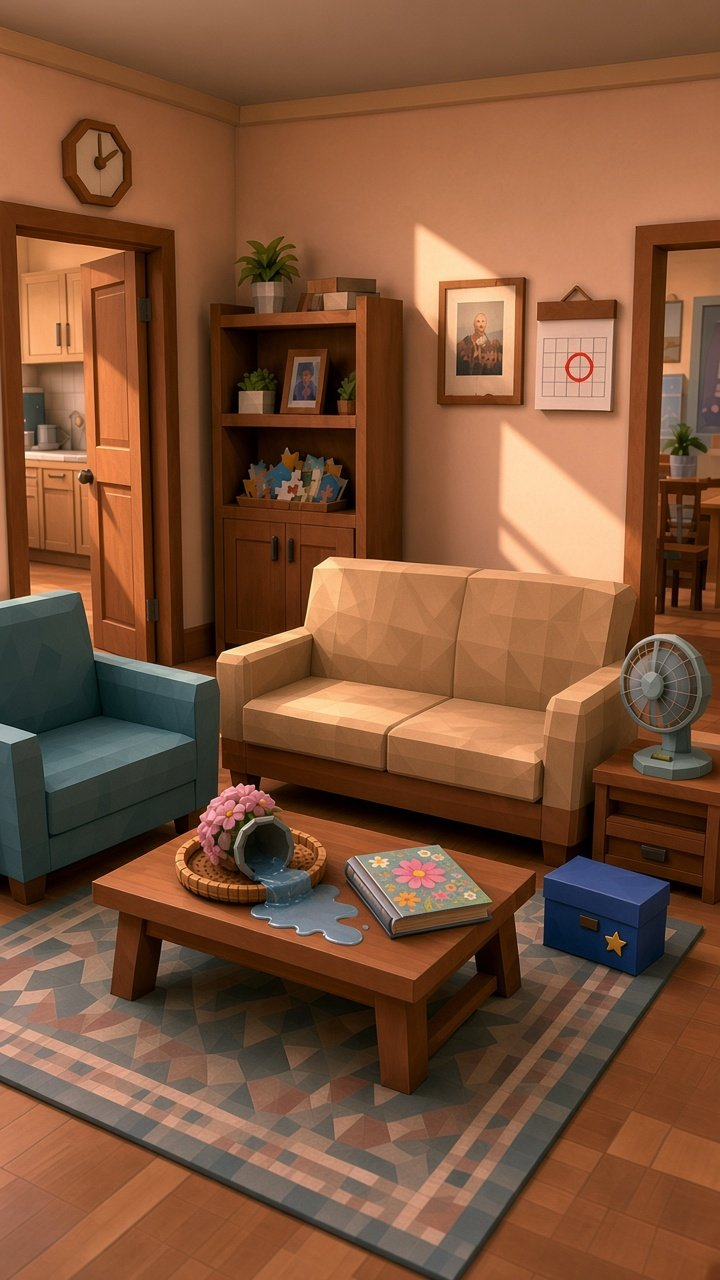
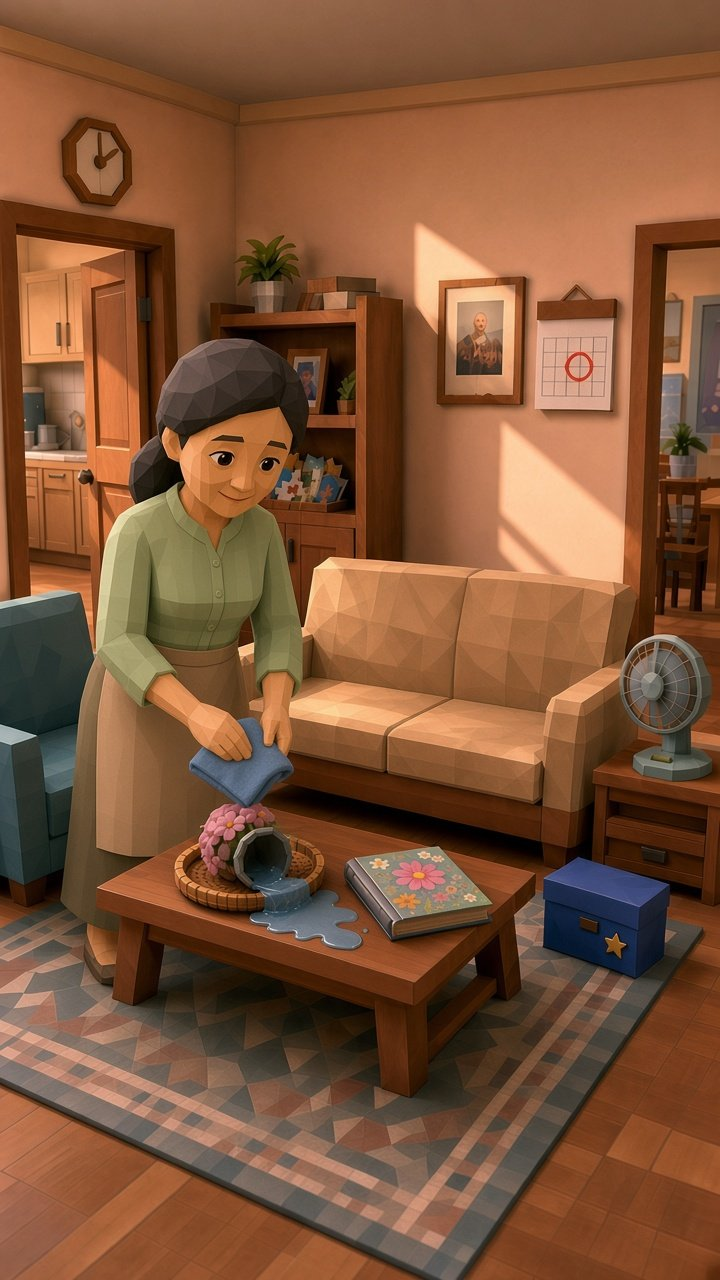
Add aunt Rin low-poly art; characters + dialogue in past time slots (Rin afternoon, grandma yesterday); keep map tray in yesterday; move cutscene p3 bubble; showcase data

diff --git a/prototypes/poc-clickthrough/index.html b/prototypes/poc-clickthrough/index.html
@@ -177,7 +177,7 @@ const EVENTS=[
 const CUTSCENE={'case-01':[
  {image:'cutscene-01-p1.jpg',caption:'คืนวันศุกร์ คุณยายมะลิโทรมาหาแม่',lines:[{who:'แม่',text:'พรุ่งนี้เราไปเยี่ยมบ้านคุณยายกันนะ',x:4,y:22,w:48},{who:'หนู',text:'เย้! ไปหาคุณยาย!',x:40,y:58,w:44}]},
  {image:'cutscene-01-p2.jpg',caption:'เช้าวันเสาร์ ครอบครัวมาถึงบ้านไม้ของคุณยาย',lines:[{who:'ยายมะลิ',text:'มาแล้วเหรอจ๊ะหลาน ยายคิดถึงจังเลย',x:2,y:46,w:50}]},
- {image:'cutscene-01-p3.jpg',caption:'แต่คุณยายดูไม่สบายใจเลย…',lines:[{who:'ยายมะลิ',text:'อัลบั้มรูปครอบครัวหายไปจากชั้นจ้ะ ในนั้นมีรูปตาตอนหนุ่ม ๆ ด้วย',x:2,y:22,w:52},{who:'หนู',text:'ไม่ต้องห่วงนะยาย หนูจะช่วยตามหาเอง!',x:56,y:72,w:42}]}]};
+ {image:'cutscene-01-p3.jpg',caption:'แต่คุณยายดูไม่สบายใจเลย…',lines:[{who:'ยายมะลิ',text:'อัลบั้มรูปครอบครัวหายไปจากชั้นจ้ะ ในนั้นมีรูปตาตอนหนุ่ม ๆ ด้วย',x:2,y:50,w:34},{who:'หนู',text:'ไม่ต้องห่วงนะยาย หนูจะช่วยตามหาเอง!',x:56,y:72,w:42}]}]};
 S.csEv='case-01';S.csPage=0;
 SC.events={title:'เลือกเหตุการณ์',hud:()=>'แตะการ์ดเพื่อเริ่มเหตุการณ์',render(el){const w=document.createElement('div');w.className='evlist';
  let h='<div class="evh">ออกจากห้องแล้ว จะไปไหนดีนะ?</div>';
@@ -223,12 +223,13 @@ const TIMESLOTS=[
  {id:'afternoon',kind:'hour',label:'บ่ายนี้ 14:00',img:'living-wide-afternoon.jpg',unlockBy:'E02',hint:'ลองตรวจรอยน้ำบนโต๊ะก่อน'},
  {id:'now',kind:'hour',label:'ตอนนี้ 17:00',img:'living-wide.jpg',unlockBy:null}];
 S.slot='now';
+const PAST={rin:['แย่จัง แจกันล้ม น้ำหกเต็มโต๊ะเลย ต้องรีบเช็ดก่อน','ของบนโต๊ะต้องยกออกไปก่อน เดี๋ยวเปียกหมด'],grandma:['พรุ่งนี้หลานจะมา ยายจะหยิบอัลบั้มเล่มนี้ลงไปเปิดให้ดูตอนเช้า','รูปเก่า ๆ บ้านเรามีที่เก็บประจำนะ แต่เล่มนี้ยายชอบไว้ใกล้ตัว']};
 const slotOf=()=>TIMESLOTS.find(t=>t.id===S.slot);
 const slotOpen=t=>!t.unlockBy||S.ev[t.unlockBy];
 function pastHs(){const L=[hs([[8,9],[18,9],[18,16],[8,16]],'นาฬิกา',()=>openTime('clock')),hs([[74,22],[86,22],[86,32],[74,32]],'ปฏิทินของยาย',()=>openCal('living')),
   hs([[76,66],[92,66],[93,75],[76,75]],'กล่องรูปดาว (ข้างโซฟา)',()=>toast('กล่องนี้อยู่ที่เดิมทุกช่วงเวลา'))];
- if(S.slot==='afternoon')L.push(hs([[28,61],[42,61],[44,70],[30,71]],'แจกันล้ม',()=>say('ย้อนเวลา: บ่ายนี้','แจกันล้ม น้ำหกนองโต๊ะ — อัลบั้มวางอยู่ข้าง ๆ เกือบเปียก!')),hs([[48,66],[68,66],[68,73],[48,73]],'อัลบั้ม (บ่ายนี้)',()=>say('ย้อนเวลา: บ่ายนี้','บ่ายนี้อัลบั้มยังอยู่บนโต๊ะ แต่ตอนนี้หายไป ใครยกไปตอนเช็ดน้ำนะ?')),hs([[30,33],[52,33],[52,41],[30,41]],'ถาดชิ้นแผนผัง',()=>toast('ชิ้นแผนผังยังอยู่ในถาด')));
- if(S.slot==='yesterday')L.push(hs([[33,34],[47,34],[47,41],[33,41]],'อัลบั้มบนชั้น',()=>say('ย้อนเวลา: เมื่อวาน','เมื่อวานอัลบั้มยังอยู่บนชั้น ยายหยิบลงมาดูบนโต๊ะเมื่อเช้า')));
+ if(S.slot==='afternoon')L.push(hs([[22,27],[42,28],[42,52],[30,58],[12,60],[14,40]],'น้าริน (บ่ายนี้)',()=>say2('น้าริน',PAST.rin)),hs([[30,64],[42,64],[48,72],[34,72]],'แจกันล้ม',()=>say('ย้อนเวลา: บ่ายนี้','แจกันล้ม น้ำหกนองโต๊ะ — อัลบั้มวางอยู่ข้าง ๆ เกือบเปียก!')),hs([[48,66],[68,66],[68,73],[48,73]],'อัลบั้ม (บ่ายนี้)',()=>say('ย้อนเวลา: บ่ายนี้','บ่ายนี้อัลบั้มยังอยู่บนโต๊ะ แต่ตอนนี้หายไป ใครยกไปตอนเช็ดน้ำนะ?')),hs([[44,34],[50,34],[50,40],[44,40]],'ถาดชิ้นแผนผัง',()=>toast('ชิ้นแผนผังยังอยู่ในถาด')));
+ if(S.slot==='yesterday')L.push(hs([[20,25],[34,25],[36,40],[34,52],[18,52],[18,40]],'ยายมะลิ (เมื่อวาน)',()=>say2('ยายมะลิ',PAST.grandma)),hs([[38,27],[48,27],[48,33],[38,33]],'อัลบั้มบนชั้น',()=>say('ย้อนเวลา: เมื่อวาน','อัลบั้มปกดอกไม้ตั้งอยู่บนชั้นบน ใกล้มือยาย')),hs([[37,35],[48,35],[48,40],[37,40]],'ถาดชิ้นแผนผัง',()=>toast('ชิ้นแผนผังยังเรียงอยู่ในถาดครบ')));
  return L}
 function openTime(kind){const el=$('cal');const list=TIMESLOTS.filter(t=>kind==='clock'?t.kind==='hour':true);
  let h=`<button class="calx" aria-label="ปิด">✕</button><div class="calc" style="background:repeating-linear-gradient(0deg,#f3e3c3 0 6px,#efdcb8 6px 7px);color:#4a2e18;border:8px solid #8a5a34"><div class="calh" style="background:linear-gradient(90deg,#6b3f22,#8a5a34)"><span>${kind==='clock'?'🕰 นาฬิกา: ย้อนชั่วโมง':'📅 ปฏิทิน: ย้อนวัน'}</span><small>พลังย้อนเวลา</small></div><ul class="cale">`+
@@ -317,7 +318,7 @@ SC.deduce={title:'กระดานคดี — สรุปคดี',hud:()=
  const evs=Object.keys(S.ev).filter(k=>k!=='E05');
  DQA.forEach((d,i)=>{const b=document.createElement('div');b.className='dq'+(DQ.ok[i]===1?' ok':DQ.ok[i]===-1?' bad':'');
   let h=`<h4>${d.q} ${DQ.ok[i]===1?'✅':''}</h4><div class="row">`;
-  if(i===0)[['grandma','ยายมะลิ','img/living-grandma.jpg'],['mek','ลุงเมฆ','img/uncle-mek.jpg'],['rin','น้าริน','']].forEach(([k,n,im])=>h+=`<div class="por ${DQ.a[0]===k?'sel':''}" data-a="${k}" style="${im?`background-image:url(${im})`:'background:#c58fb0;font-size:28px'}">${im?'':'👩'}<span>${n}</span></div>`);
+  if(i===0)[['grandma','ยายมะลิ','img/living-grandma.jpg'],['mek','ลุงเมฆ','img/uncle-mek.jpg'],['rin','น้าริน','img/rin.jpg']].forEach(([k,n,im])=>h+=`<div class="por ${DQ.a[0]===k?'sel':''}" data-a="${k}" style="${im?`background-image:url(${im})`:'background:#c58fb0;font-size:28px'}">${im?'':'👩'}<span>${n}</span></div>`);
   if(i===1)[['water','น้ำหกบนโต๊ะ'],['hide','แอบซ่อนไว้'],['look','หยิบไปดูรูป']].forEach(([k,n])=>h+=`<button class="ch ${DQ.a[1]===k?'sel':''}" data-a="${k}">${n}</button>`);
   if(i===2){h+='<div class="mini">'+[['living',10,10,80,35],['study',12,46,40,34],['kitchen',53,46,35,34]].map(([k,x,y,ww,hh])=>`<div class="${DQ.a[2]===k?'sel':''}" data-a="${k}" title="${k}" style="left:${x}%;top:${y}%;width:${ww}%;height:${hh}%"></div>`).join('')+`</div><span>${{living:'ห้องนั่งเล่น',study:'ห้องทำงาน (ใต้หน้าต่าง)',kitchen:'ครัว'}[DQ.a[2]]||'แตะห้องบนแผนผัง'}</span>`}
   h+='</div><div class="row" style="margin-top:6px">หลักฐาน: '+evs.map(k=>`<span class="evc ${DQ.e[i]===k?'sel':''}" data-e="${k}">${k}</span>`).join('')+'</div>';

diff --git a/prototypes/asset-showcase/index.html b/prototypes/asset-showcase/index.html
@@ -113,12 +113,22 @@ footer{padding:14px;font-size:12px;opacity:.7}
    "nameTh": "น้าริน",
    "nameEn": "Aunt Rin",
    "category": "character",
-   "thumb": null,
+   "thumb": {
+    "src": "../poc-clickthrough/img/rin.jpg",
+    "crop": [
+     22,
+     8,
+     58,
+     58
+    ]
+   },
    "scenes": [
-    "(ยังไม่ปรากฏตัว)"
+    "living@afternoon",
+    "deduction",
+    "ending"
    ],
-   "status": "to-design",
-   "note": "ยังไม่มีภาพ"
+   "status": "concept-only",
+   "note": "ผมหางม้าต่ำ เสื้อเขียวอ่อน ผ้ากันเปื้อน — ผู้ย้ายอัลบั้ม (ไม่ใช่คนร้าย)"
   },
   {
    "id": "room-player",
@@ -679,7 +689,7 @@ footer{padding:14px;font-size:12px;opacity:.7}
     "living @ afternoon"
    ],
    "size": "720×1280",
-   "kb": 139
+   "kb": 140
   },
   {
    "file": "prototypes/poc-clickthrough/img/living-wide-yesterday.jpg",
@@ -689,7 +699,7 @@ footer{padding:14px;font-size:12px;opacity:.7}
     "living @ yesterday"
    ],
    "size": "720×1280",
-   "kb": 124
+   "kb": 128
   },
   {
    "file": "prototypes/poc-clickthrough/img/living-wide.jpg",
@@ -707,6 +717,16 @@ footer{padding:14px;font-size:12px;opacity:.7}
    "category": "background",
    "usedIn": [
     "room (ห้องของฉัน (hub))"
+   ],
+   "size": "720×1280",
+   "kb": 107
+  },
+  {
+   "file": "prototypes/poc-clickthrough/img/rin.jpg",
+   "thumb": "../poc-clickthrough/img/rin.jpg",
+   "category": "closeup",
+   "usedIn": [
+    "น้าริน portrait · deduction (ใครย้ายอัลบั้ม?)"
    ],
    "size": "720×1280",
    "kb": 107
@@ -865,7 +885,7 @@ footer{padding:14px;font-size:12px;opacity:.7}
    "slot": "afternoon",
    "image": "../../concepts/v2/living-wide-afternoon.jpg",
    "changes": [
-    "ไม่มีคนในห้อง",
+    "น้ารินกำลังเช็ดน้ำ (ไม่มีคนอื่น)",
     "แจกันล้ม น้ำนองโต๊ะ",
     "อัลบั้มวางบนโต๊ะ",
     "ยังไม่มีข้อความของน้าริน"
@@ -877,8 +897,8 @@ footer{padding:14px;font-size:12px;opacity:.7}
    "slot": "yesterday",
    "image": "../../concepts/v2/living-wide-yesterday.jpg",
    "changes": [
-    "ไม่มีคนในห้อง",
-    "อัลบั้มตั้งอยู่บนชั้นหนังสือ",
+    "ยายมะลิยืนข้างชั้นหนังสือ",
+    "อัลบั้มตั้งอยู่บนชั้นบน ถาดชิ้นแผนผังยังอยู่ชั้นกลาง",
     "โต๊ะแห้ง ไม่มีข้อความ"
    ],
    "lighting": "evening lamp"

diff --git a/prototypes/asset-showcase/build_assets.py b/prototypes/asset-showcase/build_assets.py
@@ -15,7 +15,7 @@ a3=[
  A('child-player','หนู (ตัวละครผู้เล่น)','Child (player)','character',P('cutscene-01-p1.jpg'),[8,34,40,32],['cutscene p1-p3'],'concept-only','ผมทรงกะลาครอบสีดำ เสื้อเหลือง กางเกงน้ำเงิน — พลังควบคุมเวลา'),
  A('mom','แม่','Mom','character',P('cutscene-01-p1.jpg'),[34,0,46,32],['cutscene p1-p2']),
  A('uncle-mek','ลุงเมฆ','Uncle Mek','character',P('uncle-mek.jpg'),[28,10,52,48],['living']),
- A('aunt-rin','น้าริน','Aunt Rin','character',None,None,['(ยังไม่ปรากฏตัว)'],'to-design','ยังไม่มีภาพ'),
+ A('aunt-rin','น้าริน','Aunt Rin','character',P('rin.jpg'),[22,8,58,58],['living@afternoon','deduction','ending'],'concept-only','ผมหางม้าต่ำ เสื้อเขียวอ่อน ผ้ากันเปื้อน — ผู้ย้ายอัลบั้ม (ไม่ใช่คนร้าย)'),
  A('room-player','ห้องของฉัน','Player room (hub)','room',P('player-room-wide.jpg'),[0,0,100,100],['room']),
  A('room-living','ห้องนั่งเล่นบ้านยาย','Grandma living room','room',P('living-wide.jpg'),[0,0,100,100],['living (3 ช่วงเวลา)']),
  A('room-study','ห้องทำงาน','Study','room',P('study-wide.jpg'),[0,0,100,100],['study']),
@@ -53,6 +53,7 @@ for p in sorted(glob.glob(IMG+'/*.jpg')):
   if f.startswith('cutscene'):w=['cutscene: case-01 page '+f[-5]]
   if '-afternoon' in f or '-yesterday' in f:w=['living @ '+f.split('-')[-1][:-4]]
   if f=='cutscene-01-p2.jpg':w.append('event card cover')
+  if f=='rin.jpg':w=['น้าริน portrait · deduction (ใครย้ายอัลบั้ม?)']
   if f=='living-wide.jpg':w=['living @ now (ค่าเริ่ม)']
   if f=='house-map.jpg':w.append('jigsaw pieces / deduction mini-map')
   i2.append(dict(file='prototypes/poc-clickthrough/img/'+f,thumb=P(f),category=cat(f),usedIn=w or ['(closeup)'],size=f"{im.width}×{im.height}",kb=round(os.path.getsize(p)/1024)))

diff --git a/docs/design/design-decisions-2026-10-22-th.md b/docs/design/design-decisions-2026-10-22-th.md
@@ -214,8 +214,8 @@
 - **พลังของตัวละครผู้เล่น = ควบคุมเวลา** เรื่องไม่ได้เกิดที่เวลาเดียว ผู้เล่นย้อน/เลื่อนเวลาได้แบบเกมย้อนเวลา
 - แตะปฏิทินเพื่อเปลี่ยน "วัน" แตะนาฬิกาเพื่อเปลี่ยน "ชั่วโมง" เปลี่ยนแล้วสภาพห้องเปลี่ยน (ของโผล่ หาย หรือย้าย แสงเปลี่ยน) ด้วยการเฟด 300 ms ไม่มีแอนิเมชันวนซ้ำ
 - กติกา: ทุกคดีเริ่มด้วยช่วงเวลาเดียว ("ตอนนี้") ช่วงเวลาอื่นปลดล็อกเมื่อพบหลักฐานที่กำหนด (`unlockBy`) ช่วงที่ยังล็อกแสดงเป็นแถบสีเข้ม "???" + คำใบ้
-- ช่วงเวลาในอดีตเป็นภาพความจำของห้อง: ดูและแตะวัตถุได้ แต่ไม่มีตัวละครให้คุย และไม่เปลี่ยนคำตอบของคดี
-- คดี 01 (ห้องนั่งเล่น): **ตอนนี้ 17:00** อัลบั้มหาย โต๊ะเปียก มีข้อความของน้าริน · **บ่ายนี้ 14:00** (ปลดล็อกด้วย E02 โต๊ะเปียก) แจกันล้ม น้ำนองโต๊ะ อัลบั้มยังวางบนโต๊ะ ยังไม่มีข้อความ · **เมื่อวานเย็น** (ปลดล็อกด้วย E01 ข้อความของน้าริน) อัลบั้มตั้งอยู่บนชั้น โต๊ะแห้ง — สอดคล้องกับความจริงเดิม: ยายหยิบอัลบั้มลงมาดูบนโต๊ะเมื่อเช้า น้ารินทำน้ำหกตอนเก็บกวาดบ่ายนี้ จึงย้ายอัลบั้มไปเก็บตามผังเดิมในกล่องรูปดาวใต้หน้าต่างห้องทำงาน (ผู้ย้าย เหตุผล และคำตอบสรุปคดีไม่เปลี่ยน)
+- ช่วงเวลาในอดีตเป็นภาพความจำของห้อง: ดูและแตะวัตถุได้ ตัวละครที่อยู่ ณ เวลานั้นปรากฏและพูดสั้น ๆ ได้เฉพาะสิ่งที่กำลังทำ (ไม่เฉลยคำตอบ) และไม่เปลี่ยนคำตอบของคดี
+- คดี 01 (ห้องนั่งเล่น): **ตอนนี้ 17:00** อัลบั้มหาย โต๊ะเปียก มีข้อความของน้าริน · **บ่ายนี้ 14:00** (ปลดล็อกด้วย E02 โต๊ะเปียก) น้ารินกำลังเช็ดน้ำ แจกันล้ม น้ำนองโต๊ะ อัลบั้มยังวางบนโต๊ะ ยังไม่มีข้อความ · **เมื่อวานเย็น** (ปลดล็อกด้วย E01 ข้อความของน้าริน) ยายมะลิยืนข้างชั้น อัลบั้มตั้งอยู่บนชั้นบน ถาดชิ้นแผนผังยังอยู่ โต๊ะแห้ง — สอดคล้องกับความจริงเดิม: ยายหยิบอัลบั้มลงมาดูบนโต๊ะเมื่อเช้า น้ารินทำน้ำหกตอนเก็บกวาดบ่ายนี้ จึงย้ายอัลบั้มไปเก็บตามผังเดิมในกล่องรูปดาวใต้หน้าต่างห้องทำงาน (ผู้ย้าย เหตุผล และคำตอบสรุปคดีไม่เปลี่ยน)
 
 ## สไตล์ภาพ low-poly (ตัดสินใจแล้ว)
 - ทุกฉากและตัวละครเป็น low-poly 3D แบบ flat-shaded เรขาคณิตเรียบง่ายที่โมเดลได้จริง แสงสม่ำเสมอ ไม่ใช่ภาพวาด

diff --git a/docs/design/never-ending-story-game-spec-v0.4-th.md b/docs/design/never-ending-story-game-spec-v0.4-th.md
@@ -69,8 +69,8 @@
 - **พลังของตัวละครผู้เล่น = ควบคุมเวลา** เรื่องไม่ได้เกิดที่เวลาเดียว ผู้เล่นย้อน/เลื่อนเวลาได้แบบเกมย้อนเวลา
 - แตะปฏิทินเพื่อเปลี่ยน "วัน" แตะนาฬิกาเพื่อเปลี่ยน "ชั่วโมง" เปลี่ยนแล้วสภาพห้องเปลี่ยน (ของโผล่ หาย หรือย้าย แสงเปลี่ยน) ด้วยการเฟด 300 ms ไม่มีแอนิเมชันวนซ้ำ
 - กติกา: ทุกคดีเริ่มด้วยช่วงเวลาเดียว ("ตอนนี้") ช่วงเวลาอื่นปลดล็อกเมื่อพบหลักฐานที่กำหนด (`unlockBy`) ช่วงที่ยังล็อกแสดงเป็นแถบสีเข้ม "???" + คำใบ้
-- ช่วงเวลาในอดีตเป็นภาพความจำของห้อง: ดูและแตะวัตถุได้ แต่ไม่มีตัวละครให้คุย และไม่เปลี่ยนคำตอบของคดี
-- คดี 01 (ห้องนั่งเล่น): **ตอนนี้ 17:00** อัลบั้มหาย โต๊ะเปียก มีข้อความของน้าริน · **บ่ายนี้ 14:00** (ปลดล็อกด้วย E02 โต๊ะเปียก) แจกันล้ม น้ำนองโต๊ะ อัลบั้มยังวางบนโต๊ะ ยังไม่มีข้อความ · **เมื่อวานเย็น** (ปลดล็อกด้วย E01 ข้อความของน้าริน) อัลบั้มตั้งอยู่บนชั้น โต๊ะแห้ง — สอดคล้องกับความจริงเดิม: ยายหยิบอัลบั้มลงมาดูบนโต๊ะเมื่อเช้า น้ารินทำน้ำหกตอนเก็บกวาดบ่ายนี้ จึงย้ายอัลบั้มไปเก็บตามผังเดิมในกล่องรูปดาวใต้หน้าต่างห้องทำงาน (ผู้ย้าย เหตุผล และคำตอบสรุปคดีไม่เปลี่ยน)
+- ช่วงเวลาในอดีตเป็นภาพความจำของห้อง: ดูและแตะวัตถุได้ ตัวละครที่อยู่ ณ เวลานั้นปรากฏและพูดสั้น ๆ ได้เฉพาะสิ่งที่กำลังทำ (ไม่เฉลยคำตอบ) และไม่เปลี่ยนคำตอบของคดี
+- คดี 01 (ห้องนั่งเล่น): **ตอนนี้ 17:00** อัลบั้มหาย โต๊ะเปียก มีข้อความของน้าริน · **บ่ายนี้ 14:00** (ปลดล็อกด้วย E02 โต๊ะเปียก) น้ารินกำลังเช็ดน้ำ แจกันล้ม น้ำนองโต๊ะ อัลบั้มยังวางบนโต๊ะ ยังไม่มีข้อความ · **เมื่อวานเย็น** (ปลดล็อกด้วย E01 ข้อความของน้าริน) ยายมะลิยืนข้างชั้น อัลบั้มตั้งอยู่บนชั้นบน ถาดชิ้นแผนผังยังอยู่ โต๊ะแห้ง — สอดคล้องกับความจริงเดิม: ยายหยิบอัลบั้มลงมาดูบนโต๊ะเมื่อเช้า น้ารินทำน้ำหกตอนเก็บกวาดบ่ายนี้ จึงย้ายอัลบั้มไปเก็บตามผังเดิมในกล่องรูปดาวใต้หน้าต่างห้องทำงาน (ผู้ย้าย เหตุผล และคำตอบสรุปคดีไม่เปลี่ยน)
 
 ### 4.1 ห้องของผู้เล่น (hub)
 - เกมเปิดที่นี่ และกลับมาที่นี่หลังจบคดี

diff --git a/docs/design/never-ending-story-game-case-01-missing-family-album-th.md b/docs/design/never-ending-story-game-case-01-missing-family-album-th.md
@@ -62,9 +62,10 @@
 | ช่วงเวลา | ปลดล็อกด้วย | สภาพห้องนั่งเล่น |
 |---|---|---|
 | ตอนนี้ 17:00 (เริ่ม) | — | อัลบั้มหาย โต๊ะเปียก มีข้อความของน้าริน ยายและลุงเมฆอยู่ในห้อง |
-| บ่ายนี้ 14:00 | E02 โต๊ะที่เปียก | ไม่มีคน แจกันล้ม น้ำนองโต๊ะ อัลบั้มยังวางบนโต๊ะ ยังไม่มีข้อความ |
-| เมื่อวานเย็น 21 ต.ค. | E01 ข้อความของน้าริน | ไม่มีคน อัลบั้มตั้งบนชั้นหนังสือ โต๊ะแห้ง |
+| บ่ายนี้ 14:00 | E02 โต๊ะที่เปียก | น้ารินกำลังเช็ดน้ำ แจกันล้ม น้ำนองโต๊ะ อัลบั้มยังวางบนโต๊ะ ยังไม่มีข้อความ — ริน: “แย่จัง แจกันล้ม น้ำหกเต็มโต๊ะเลย ต้องรีบเช็ดก่อน” / “ของบนโต๊ะต้องยกออกไปก่อน เดี๋ยวเปียกหมด” |
+| เมื่อวานเย็น 21 ต.ค. | E01 ข้อความของน้าริน | ยายมะลิยืนข้างชั้น อัลบั้มตั้งบนชั้นบน ถาดชิ้นแผนผังอยู่ชั้นกลาง โต๊ะแห้ง — ยาย: “พรุ่งนี้หลานจะมา ยายจะหยิบอัลบั้มเล่มนี้ลงไปเปิดให้ดูตอนเช้า” / “รูปเก่า ๆ บ้านเรามีที่เก็บประจำนะ แต่เล่มนี้ยายชอบไว้ใกล้ตัว” |
 
+- ตัวละครในอดีตพูดได้แค่สิ่งที่ทำอยู่ ณ เวลานั้น ไม่บอกว่าอัลบั้มไปอยู่ที่ไหน
 - ช่วงเวลาเป็นเบาะแสเสริม ไม่ใช่หลักฐานใหม่ (ยังคง E01–E05) ความจริงของคดี ผู้ย้าย เหตุผล และคำตอบไม่เปลี่ยน
 - ปฏิทินของยาย (วงแดง 22 ต.ค. "บ่ายนี้ รินมาช่วยเก็บกวาดบ้าน") สนับสนุนคำถาม "ใครย้ายอัลบั้ม"
 
